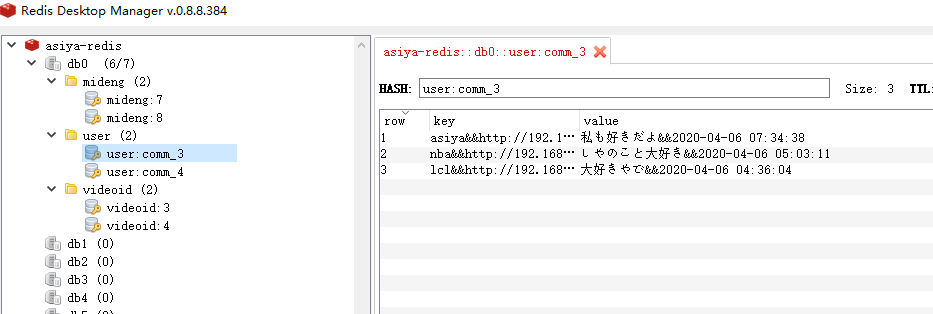
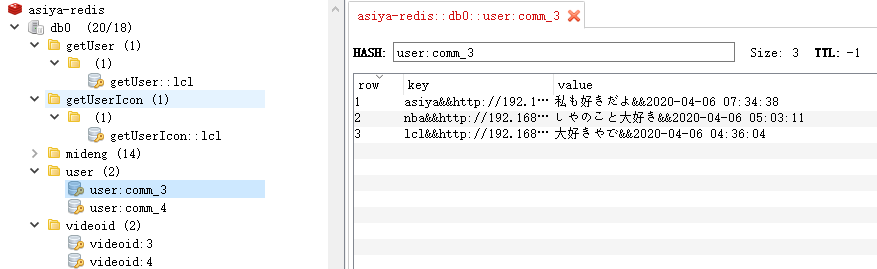
add spring cache fiction

diff --git a/oauth2/src/main/java/li/changlin/oauth2/controller/UserCon.java b/oauth2/src/main/java/li/changlin/oauth2/controller/UserCon.java
@@ -8,6 +8,9 @@ import li.changlin.oauth2.service.UsersService;
 import org.apache.commons.io.FilenameUtils;
 import org.apache.commons.lang.StringUtils;
 import org.springframework.beans.factory.annotation.Autowired;
+import org.springframework.cache.annotation.CacheEvict;
+import org.springframework.cache.annotation.Cacheable;
+import org.springframework.data.redis.core.RedisTemplate;
 import org.springframework.jdbc.core.JdbcTemplate;
 import org.springframework.stereotype.Controller;
 import org.springframework.ui.Model;
@@ -33,6 +36,8 @@ public class UserCon {
     private FastFileStorageClient storageClient;
     @Autowired
     private JdbcTemplate jdbcTemplate;
+    @Autowired
+    private RedisTemplate redisTemplate;
 
     @GetMapping("/register")
     public String getRegister() {
@@ -65,6 +70,18 @@ public class UserCon {
         jdbcTemplate.update(sql,obj);
         return "http://192.168.30.164:8888/"+uploadFile.getFullPath();
     }
+    @GetMapping("/getUser")
+    @ResponseBody
+    @Cacheable(value = "getUser",key = "#username")
+    public User getUser(@RequestParam(value = "username")String username){
+        User user = us.getUserByName(username);
+        return user;
+    }
+    @GetMapping("/user/add")
+    public String adduser(Model model) {
+        model.addAttribute("user", new User(null,0,null,null,null,null,0));
+        return "user/add";
+    }
     @GetMapping("/userEdit")
     //@PreAuthorize("authentication.name.equals(#username)")
     public String getUserEdit(@RequestParam(value = "name") String username, Model model) {
@@ -73,7 +90,9 @@ public class UserCon {
         return "user/userEdit";
     }
     @PostMapping("/userEdit")
+    @CacheEvict(value = "getUser",key = "#user.username",beforeInvocation = true)
     public String userEdit(User user) {
+        redisTemplate.delete("getUserIcon::"+user.getUsername());
         User originalUser = us.getUserById(user.getId());
         originalUser.setAvatar(user.getAvatar());
         originalUser.setTend(user.getTend());

diff --git a/service/video/src/main/java/li/changlin/video/controller/VideoCon.java b/service/video/src/main/java/li/changlin/video/controller/VideoCon.java
@@ -6,6 +6,7 @@ import li.changlin.user.entity.User;
 import li.changlin.video.entity.Video;
 import li.changlin.video.service.VideoService;
 import org.springframework.beans.factory.annotation.Autowired;
+import org.springframework.cache.annotation.Cacheable;
 import org.springframework.http.MediaType;
 import org.springframework.http.ResponseEntity;
 import org.springframework.security.core.Authentication;
@@ -46,17 +47,15 @@ public class VideoCon {
         String redirectUrl = "http://localhost:8765/";
         return ResponseEntity.ok().body(new Response(true, "アップロード成功", redirectUrl));
     }
-    @GetMapping("/video/delete/{videoID}")
+    /*@GetMapping("/video/delete/{videoID}")
     public String deleteVideo(@PathVariable("videoID")Integer videoID){
        // int userID = vs.getVideoById(videoID).getUser().getId();
         vs.removeVideo(videoID);
         return "redirect:/u";// + userID;
-
-    }
+    }*/
     @GetMapping(value = "/video/{id}")
     @ResponseBody
-    public Video getVideoById(@PathVariable("id")Integer id,HttpServletRequest httpServletRequest){
-        System.out.println(httpServletRequest.getRequestedSessionId());
+    public Video getVideoById(@PathVariable("id")Integer id){
         return vs.getVideoById(id);
     }
     @GetMapping("/getPrinciple")

diff --git a/oauth2/src/main/java/li/changlin/oauth2/controller/AdminCon.java b/oauth2/src/main/java/li/changlin/oauth2/controller/AdminCon.java
@@ -8,6 +8,9 @@ import li.changlin.user.entity.User;
 import li.changlin.oauth2.service.AuthorityService;
 import li.changlin.oauth2.service.UsersService;
 import org.springframework.beans.factory.annotation.Autowired;
+import org.springframework.cache.annotation.CacheEvict;
+import org.springframework.cache.annotation.CachePut;
+import org.springframework.cache.annotation.Cacheable;
 import org.springframework.http.ResponseEntity;
 import org.springframework.security.crypto.bcrypt.BCryptPasswordEncoder;
 import org.springframework.security.crypto.password.PasswordEncoder;
@@ -48,17 +51,7 @@ public class AdminCon {
         map.put("rows", users.getResult());
         return map;
     }
-    @GetMapping("/getUser")
-    @ResponseBody
-    public User getUser(@RequestParam(value = "username")String username){
-        User user = us.getUserByName(username);
-        return user;
-    }
-    @GetMapping("/user/add")
-    public String adduser(Model model) {
-        model.addAttribute("user", new User(null,0,null,null,null,null,0));
-        return "user/add";
-    }
+
     @DeleteMapping(value = "/user/{id}")
     @ResponseBody
     public ResponseEntity<Response> delete(@PathVariable("id") Integer id) {

diff --git a/oauth2/src/main/java/li/changlin/oauth2/config/Oauth2RedisConfig.java b/oauth2/src/main/java/li/changlin/oauth2/config/Oauth2RedisConfig.java
@@ -1,4 +1,4 @@
-package li.changlin.video.config;
+package li.changlin.oauth2.config;
 
 import com.fasterxml.jackson.annotation.JsonAutoDetect;
 import com.fasterxml.jackson.annotation.PropertyAccessor;
@@ -11,7 +11,6 @@ import org.springframework.data.redis.cache.RedisCacheManager;
 import org.springframework.data.redis.cache.RedisCacheWriter;
 import org.springframework.data.redis.connection.RedisConnectionFactory;
 import org.springframework.data.redis.core.RedisTemplate;
-import org.springframework.data.redis.core.StringRedisTemplate;
 import org.springframework.data.redis.serializer.Jackson2JsonRedisSerializer;
 import org.springframework.data.redis.serializer.JdkSerializationRedisSerializer;
 import org.springframework.data.redis.serializer.RedisSerializationContext;
@@ -21,8 +20,7 @@ import java.time.Duration;
 
 @Configuration
 @EnableCaching
-public class VideoRedisConfig {
-
+public class Oauth2RedisConfig {
     @Bean
     public RedisCacheManager cacheManager(RedisConnectionFactory redisConnectionFactory) {
         RedisCacheWriter redisCacheWriter = RedisCacheWriter.nonLockingRedisCacheWriter(redisConnectionFactory);

diff --git a/service/search/src/main/java/li/changlin/search/config/SearchRedisConfig.java b/service/search/src/main/java/li/changlin/search/config/SearchRedisConfig.java
@@ -1,4 +1,4 @@
-package li.changlin.video.config;
+package li.changlin.search.config;
 
 import com.fasterxml.jackson.annotation.JsonAutoDetect;
 import com.fasterxml.jackson.annotation.PropertyAccessor;
@@ -11,7 +11,6 @@ import org.springframework.data.redis.cache.RedisCacheManager;
 import org.springframework.data.redis.cache.RedisCacheWriter;
 import org.springframework.data.redis.connection.RedisConnectionFactory;
 import org.springframework.data.redis.core.RedisTemplate;
-import org.springframework.data.redis.core.StringRedisTemplate;
 import org.springframework.data.redis.serializer.Jackson2JsonRedisSerializer;
 import org.springframework.data.redis.serializer.JdkSerializationRedisSerializer;
 import org.springframework.data.redis.serializer.RedisSerializationContext;
@@ -21,8 +20,7 @@ import java.time.Duration;
 
 @Configuration
 @EnableCaching
-public class VideoRedisConfig {
-
+public class SearchRedisConfig {
     @Bean
     public RedisCacheManager cacheManager(RedisConnectionFactory redisConnectionFactory) {
         RedisCacheWriter redisCacheWriter = RedisCacheWriter.nonLockingRedisCacheWriter(redisConnectionFactory);

diff --git a/service/search/src/main/java/li/changlin/search/controller/EsVideoCon.java b/service/search/src/main/java/li/changlin/search/controller/EsVideoCon.java
@@ -13,6 +13,7 @@ import org.elasticsearch.search.sort.FieldSortBuilder;
 import org.elasticsearch.search.sort.SortBuilders;
 import org.elasticsearch.search.sort.SortOrder;
 import org.springframework.beans.factory.annotation.Autowired;
+import org.springframework.cache.annotation.Cacheable;
 import org.springframework.data.domain.Page;
 import org.springframework.data.domain.PageRequest;
 import org.springframework.data.domain.Pageable;
@@ -90,6 +91,7 @@ public class EsVideoCon {
     }
     @GetMapping("/userIcon")
     @ResponseBody
+    @Cacheable(value = "getUserIcon")
     public String getUserIcon(String username){
         String sql = "select avatar from user where username=?;";
         String icon = jdbcTemplate.queryForObject(sql,String.class,username);

diff --git a/oauth2/src/main/java/li/changlin/oauth2/controller/LoginCon.java b/oauth2/src/main/java/li/changlin/oauth2/controller/LoginCon.java
@@ -5,7 +5,7 @@ import org.springframework.ui.Model;
 import org.springframework.web.bind.annotation.GetMapping;
 
 @Controller
-public class LoginController {
+public class LoginCon {
 
 	/**
 	 * 自定义登录页面
